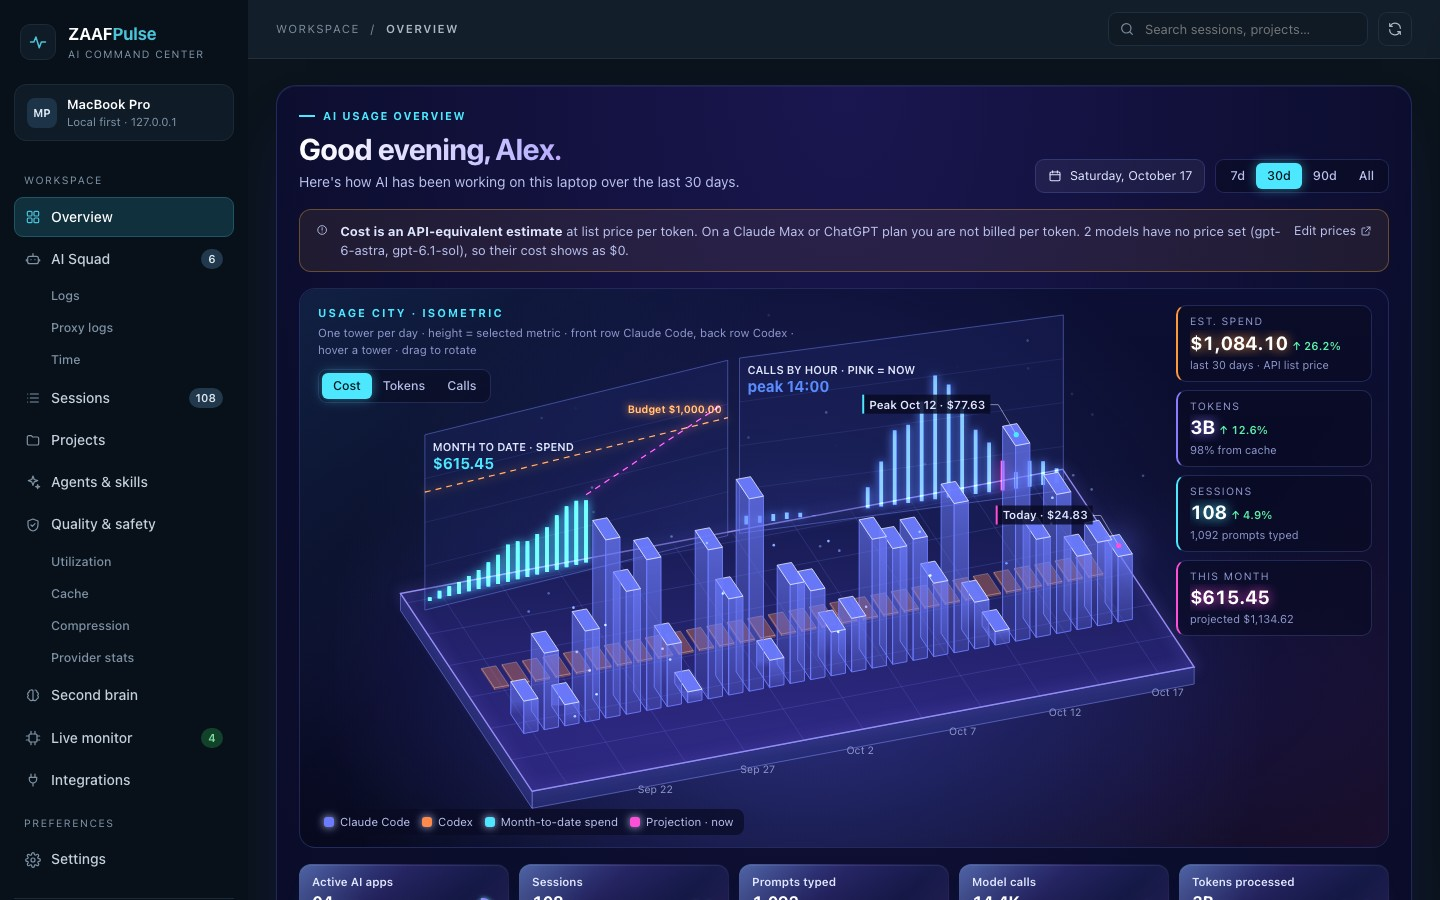
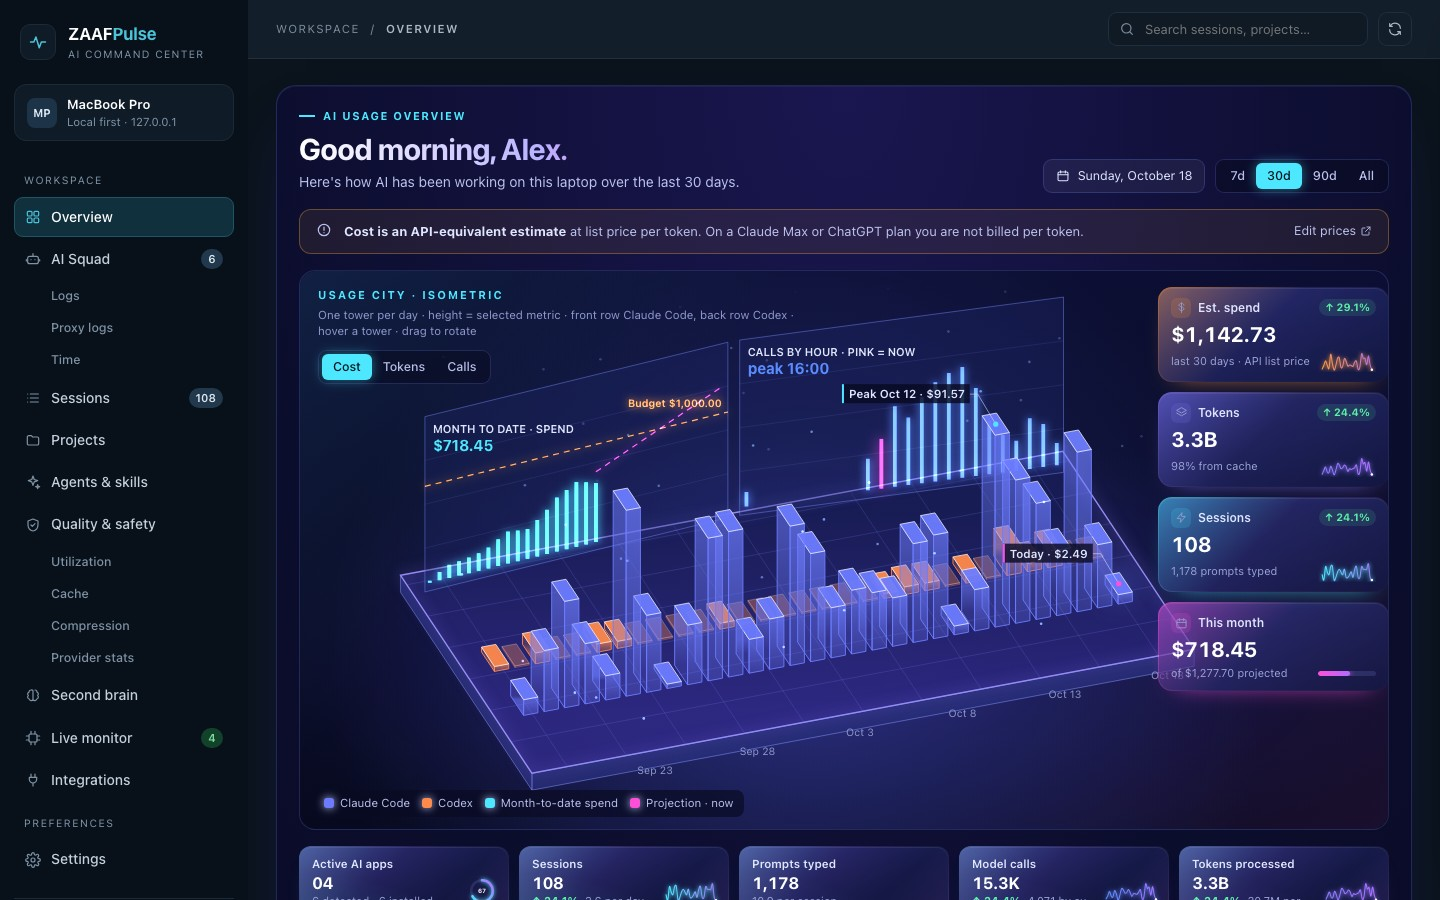
Update README and media for live prices, provider stats and the editor
- README: live provider prices in the cost answer and a cost section on
  how prices stay current; new feature cards for live prices, the
  216-model catalog and provider stats; the integration editor in the MCP
  hub card; a Settings & integrations gallery; price auto-update in the
  configuration table.
- Media re-captured from demo data with the new stage readouts, plus
  screenshots of Settings → Model prices and the integration editor.
- capture-media: run a scroll script before a shot, and capture a single
  shot with npm run media -- shots <name>.
- Demo mode uses the cached public price list (it still never fetches).

Changed region(s): [[0.1875, 0.2489, 0.9688, 1.0], [0.25, 0.1556, 0.4062, 0.1867], [0.7188, 0.1867, 0.8125, 0.2178]]

diff --git a/scripts/capture-media.js b/scripts/capture-media.js
@@ -5,6 +5,7 @@
 //   npm run media            all screenshots and GIFs
 //   npm run media -- shots   screenshots only
 //   npm run media -- gifs    GIFs only
+//   npm run media -- shots screen-settings   one screenshot
 const { spawn, execFileSync } = require('child_process');
 const fs = require('fs');
 const os = require('os');
@@ -15,7 +16,7 @@ const OUT = path.join(ROOT, 'docs', 'assets');
 const PORT = 4791; const CDP_PORT = 9339;
 const CHROME = process.env.CHROME || '/Applications/Google Chrome.app/Contents/MacOS/Google Chrome';
 const VIEW = { width: 1440, height: 900 };
-const only = process.argv[2];
+const only = process.argv[2]; const pick = process.argv[3]; // optional: one shot name
 const sleep = (ms) => new Promise((r) => setTimeout(r, ms));
 
 const SHOTS = [
@@ -23,6 +24,7 @@ const SHOTS = [
   ['screen-proxy', '#squad/proxy'], ['screen-time', '#squad/time'], ['screen-quality', '#quality'], ['screen-utilization', '#quality/utilization'],
   ['screen-cache', '#quality/cache'], ['screen-compression', '#quality/compression'], ['screen-providers', '#quality/providers'],
   ['screen-sessions', '#sessions'], ['screen-projects', '#projects'], ['screen-agents', '#agents'], ['screen-brain', '#brain'], ['screen-integrations', '#integrations'],
+  ['screen-settings', '#settings', 'js:document.querySelector("#prices-panel").scrollIntoView()'], ['screen-integration-editor', '#integrations', '[data-integ-edit="omniroute"]'],
   ['screen-drawer-spend', '#overview', '[data-drill="spend"]'], ['screen-drawer-poisoning', '#quality', '[data-drill="poisoning"]'],
 ];
 // [file, hash, seconds, before(): waits before recording, onStart: page script, crop: true = content only, no sidebar]
@@ -72,14 +74,15 @@ async function main() {
     const open = async (hash) => {
       await cdp.send('Page.navigate', { url: 'about:blank' }); await sleep(200);
       await cdp.send('Page.navigate', { url: `http://localhost:${PORT}/${hash}` });
-      await waitFor(async () => (await cdp.send('Runtime.evaluate', { expression: "!!document.querySelector('.holo-deck') && !document.querySelector('#view .skeleton')", returnByValue: true })).result.value, 20000);
+      await waitFor(async () => (await cdp.send('Runtime.evaluate', { expression: "!!document.querySelector('.holo-deck') && !document.querySelector('#view .skeleton') && !document.querySelector('#prices-panel .skeleton')", returnByValue: true })).result.value, 20000);
     };
     const evaluate = (expression) => cdp.send('Runtime.evaluate', { expression, awaitPromise: true });
 
     if (only !== 'gifs') {
-      for (const [name, hash, click] of SHOTS) {
+      for (const [name, hash, click] of SHOTS.filter(([n]) => !pick || n === pick)) {
         await open(hash); await sleep(5000); // let scenes grow and polls land
-        if (click) { await evaluate(`document.querySelector('${click}').click()`); await sleep(1400); }
+        // click: a selector to click, or `js:<script>` to run (e.g. scroll to a section).
+        if (click) { await evaluate(click.startsWith('js:') ? click.slice(3) : `document.querySelector('${click}').click()`); await sleep(1400); }
         // JPEG keeps the dark gradients small; PNG is several times larger for no visible gain.
         const { data } = await cdp.send('Page.captureScreenshot', { format: 'jpeg', quality: 90 });
         fs.writeFileSync(path.join(OUT, `${name}.jpg`), Buffer.from(data, 'base64'));

diff --git a/server.js b/server.js
@@ -57,7 +57,7 @@ function loadConfig() {
       // config.json keeps only your own prices; live and default prices are merged in at runtime.
       const manualPricing = c.pricing && typeof c.pricing === 'object' ? c.pricing : {};
       const pricingSync = { enabled: !(c.pricingSync && c.pricingSync.enabled === false), pinned: Array.isArray(c.pricingSync?.pinned) ? c.pricingSync.pinned.filter((k) => typeof k === 'string') : [] };
-      const eff = priceSync.effective(DEFAULT_PRICING, manualPricing, DEMO ? { enabled: false } : pricingSync);
+      const eff = priceSync.effective(DEFAULT_PRICING, manualPricing, pricingSync); // demo uses the cached public list too, but never fetches
       return { pricing: eff.pricing, pricingSource: eff.source, manualPricing, pricingSync };
     })(),
     vaultPaths: Array.isArray(c.vaultPaths) ? c.vaultPaths.filter((p) => typeof p === 'string') : [],

diff --git a/README.md b/README.md
@@ -37,7 +37,7 @@ AI coding agents now run for hours, read thousands of files and call hundreds of
 
 | | Question | What you get |
 |---|---|---|
-| **$** | *What is AI costing me?* | API-equivalent spend per day, model, project and session, a month-end projection, and where the money goes: input, output, cache reads or cache writes. |
+| **$** | *What is AI costing me?* | API-equivalent spend per day, model, project and session at **live provider list prices**, a month-end projection, and where the money goes: input, output, cache reads or cache writes. |
 | **✓** | *Can I trust what it did?* | Tool-call accuracy, hallucination signals (paths, edits, arguments and URLs that did not exist) and how often you had to correct it. |
 | **⚠** | *Did anything unsafe happen?* | Prompt-injection attempts in web and MCP content, secrets that surfaced in tool output, and risky commands such as `rm -rf` or force pushes. |
 | **◈** | *What are my agents doing right now?* | A live 3D office: every session and subagent walks to the room for the tool it is using, waits at the help desk when it needs you, and shows up in a request log, a stream inspector and a timeline. |
@@ -91,7 +91,7 @@ AI coding agents now run for hours, read thousands of files and call hundreds of
 <td valign="top">
 
 **MCP hub & integrations**<br>
-<sub>An MCP server for Claude Code, Kiro and Antigravity with connectors to Dynatrace, Arize, n8n, OmniRoute, 9router and any HTTP or MCP service, shown as a 3D hub with health and traffic.</sub>
+<sub>An MCP server for Claude Code, Kiro and Antigravity with connectors to Dynatrace, Arize, n8n, OmniRoute, 9router and any HTTP or MCP service, shown as a 3D hub. Add, configure and test integrations right on the page.</sub>
 
 </td>
 <td valign="top">
@@ -107,13 +107,33 @@ AI coding agents now run for hours, read thousands of files and call hundreds of
 
 </td>
 </tr>
+<tr>
+<td valign="top">
+
+**Live model prices**<br>
+<sub>Prices follow each provider's list price automatically (OpenRouter's public list, every 12 h). A card per model with prices, context, tags and your spend; pin your own price anytime.</sub>
+
+</td>
+<td valign="top">
+
+**216-model catalog**<br>
+<sub>Anthropic, OpenAI, Google, DeepSeek, Alibaba, xAI, Meta, Tencent and Z.ai, filterable by vendor and searchable, so any model you start using is priced from day one.</sub>
+
+</td>
+<td valign="top">
+
+**Provider stats**<br>
+<sub>A 3D skyline of models by provider with cost and output walls, per-model requests and cost per 1K requests, latency percentiles and reliability per provider.</sub>
+
+</td>
+</tr>
 </table>
 
 | At a glance | |
 |---|---|
 | Runtime dependencies | **0** (Node standard library only) |
 | First index of 2 GB of logs | **~15 s**, then **~25 ms** per rescan |
-| Network exposure | **127.0.0.1 only**, host-header checked; outbound only to integrations you configure |
+| Network exposure | **127.0.0.1 only**, host-header checked; outbound only to integrations you configure and the public price list |
 | 3D scenes | plain `<canvas>` 2D with an isometric projection: no WebGL, no libraries |
 | Themes | Light and dark chrome, follows your system; the decks stay dark |
 
@@ -162,7 +182,7 @@ AI coding agents now run for hours, read thousands of files and call hundreds of
 <table>
 <tr>
 <td width="50%"><img alt="Compression: compactions, context pressure and tokens avoided" src="docs/assets/screen-compression.jpg"></td>
-<td width="50%"><img alt="Provider stats: per provider and model, latency and reliability" src="docs/assets/screen-providers.jpg"></td>
+<td width="50%"><img alt="Provider stats: a 3D model skyline by provider, metric tiles, requests and cost per model" src="docs/assets/screen-providers.jpg"></td>
 </tr>
 </table>
 </details>
@@ -184,6 +204,17 @@ AI coding agents now run for hours, read thousands of files and call hundreds of
 </tr>
 </table>
 <img alt="Integrations: the MCP hub in 3D with every connection, its health and recent calls" src="docs/assets/screen-integrations.jpg">
+</details>
+
+<details open>
+<summary><b>Settings & integrations</b>: live model prices and the integration editor</summary>
+<br>
+<table>
+<tr>
+<td width="50%"><img alt="Model prices: vendor filters and a card per model with live list prices, context, tags and your spend" src="docs/assets/screen-settings.jpg"></td>
+<td width="50%"><img alt="Integration editor: configure and test a connection, secrets kept in the macOS Keychain" src="docs/assets/screen-integration-editor.jpg"></td>
+</tr>
+</table>
 </details>
 
 <details>
@@ -274,12 +305,14 @@ These are **signals detected in the logs, not a graded evaluation**. Every card 
 | **Safety** | Secrets that appeared in tool output (type only, never the value) and risky commands the AI ran: force deletes, force pushes, hard resets, pipe-to-shell, `sudo`, `chmod 777`, `kill -9`/`pkill`, `DROP TABLE`, raw disk writes. |
 | **Reliability** | API errors, network and timeout failures, repeat loops (the same call three or more times in a row), and context compactions. |
 
-**Cost** is an API-equivalent estimate: tokens × list price per million, matched by the longest model prefix, with separate cache-read and cache-write rates. On a subscription plan you are not billed per token. Prices are editable in Settings.
+**Cost** is an API-equivalent estimate: tokens × list price per million, matched by the longest model prefix, with separate cache-read and cache-write rates. On a subscription plan you are not billed per token.
+
+**Prices stay current on their own.** At startup and whenever the cached list is older than 12 hours, the server fetches OpenRouter's public model list, which carries each provider's list price, and keeps it in `.cache/prices.json`. Precedence is built-in defaults < your prices < live prices; editing a model in **Settings → Model prices** pins your price for it, and **Use live price** unpins it. Turn **Auto-update** off to rely only on your own and the built-in prices. `config.json` stores only the prices you set.
 
 ## Privacy
 
 - The server listens on `127.0.0.1` only and rejects requests whose `Host` is not `localhost`.
-- Nothing is sent anywhere unless you configure an integration, and then only to the URL you configured: when an AI client calls a tool, or when the Integrations page checks health (at most once a minute per integration, or when you press Test). No telemetry, no accounts. Integration secrets stay in the macOS Keychain or environment variables, never in `config.json`.
+- Model prices are kept current with one GET to OpenRouter's public model list every 12 hours (no credentials, no data from this laptop); turn **Auto-update** off in Settings to stop it. Otherwise nothing is sent anywhere unless you configure an integration, and then only to the URL you configured: when an AI client calls a tool, or when the Integrations page checks health (at most once a minute per integration, or when you press Test). No telemetry, no accounts. Integration secrets stay in the macOS Keychain or environment variables, never in `config.json`.
 - The office, logs and timeline read transcript tails on demand and keep only tool names, sizes, file and command names, hostnames, timing and state; message text is never shown.
 - Message text is never stored. The cache keeps token counts, metadata and, for flagged quality or safety items only, a masked snippet of up to 160 characters. Secret values are never kept.
 - `config.json` and `.cache/` are git-ignored.
@@ -312,6 +345,7 @@ lib/timeline.js        per-agent timeline segments with a per-file cache (Time)
 lib/insights.js        utilization, cache, compression and provider analytics
 lib/omniroute.js       read-only OmniRoute management API client, emails masked
 lib/integration-config.js  per-type field schema, validation, Keychain storage and dry runs for the editor
+lib/price-sync.js      live model prices from OpenRouter's public list, cached in .cache/prices.json
 public/                dashboard UI: plain HTML, CSS and JavaScript, no build step
 public/iso.js          isometric 3D engine, KPI cards and SVG chart helpers shared by all pages
 scripts/               LaunchAgent install/uninstall, launcher, Chrome opener, MCP client registration, media capture
@@ -337,6 +371,7 @@ docs/assets/           README banner, diagrams, screenshots and GIFs
 | `GET /api/mcp-calls` | recent MCP hub tool calls from the audit log |
 | `GET /api/vault` | notes, links and unresolved links of the Obsidian vault |
 | `GET /api/config` · `POST /api/config` | name, monthly budget, prices, vault path |
+| `GET /api/prices` · `POST /api/prices` | live price catalog, sync status, your pinned prices; `refresh`, `toggle`, `set`, `unpin`, `remove` |
 | `POST /api/rescan` | re-index changed log files now |
 | `GET /api/integrations` | integration health, client registration and recent MCP tool calls |
 | `POST /api/integrations/test` | fresh health check of one integration (`{ "id": "..." }`) |
@@ -354,11 +389,12 @@ Everything is editable in **Settings** and saved to `config.json`:
 |---|---|
 | Display name | your macOS account name |
 | Monthly budget (USD, API-equivalent) | none |
-| Model prices per 1M tokens | current list prices for Claude models; add a prefix such as `gpt-6` to price Codex |
+| Model prices per 1M tokens | live provider list prices (OpenRouter's public list, refreshed every 12 h); edit a model to pin your own price, or add a prefix the list does not have |
 | Obsidian vault path | the vault Obsidian has open |
 | Theme | follows the system |
+| Price auto-update | on; fetches the public price list every 12 hours (toggle in Settings) |
 
-Environment variables: `PORT` (default `4777`) and `DEMO=1` for synthetic data.
+Environment variables: `PORT` (default `4777`) and `DEMO=1` for synthetic data (demo mode never writes `config.json` or fetches anything; it uses the cached price list if one exists).
 </details>
 
 <br>
